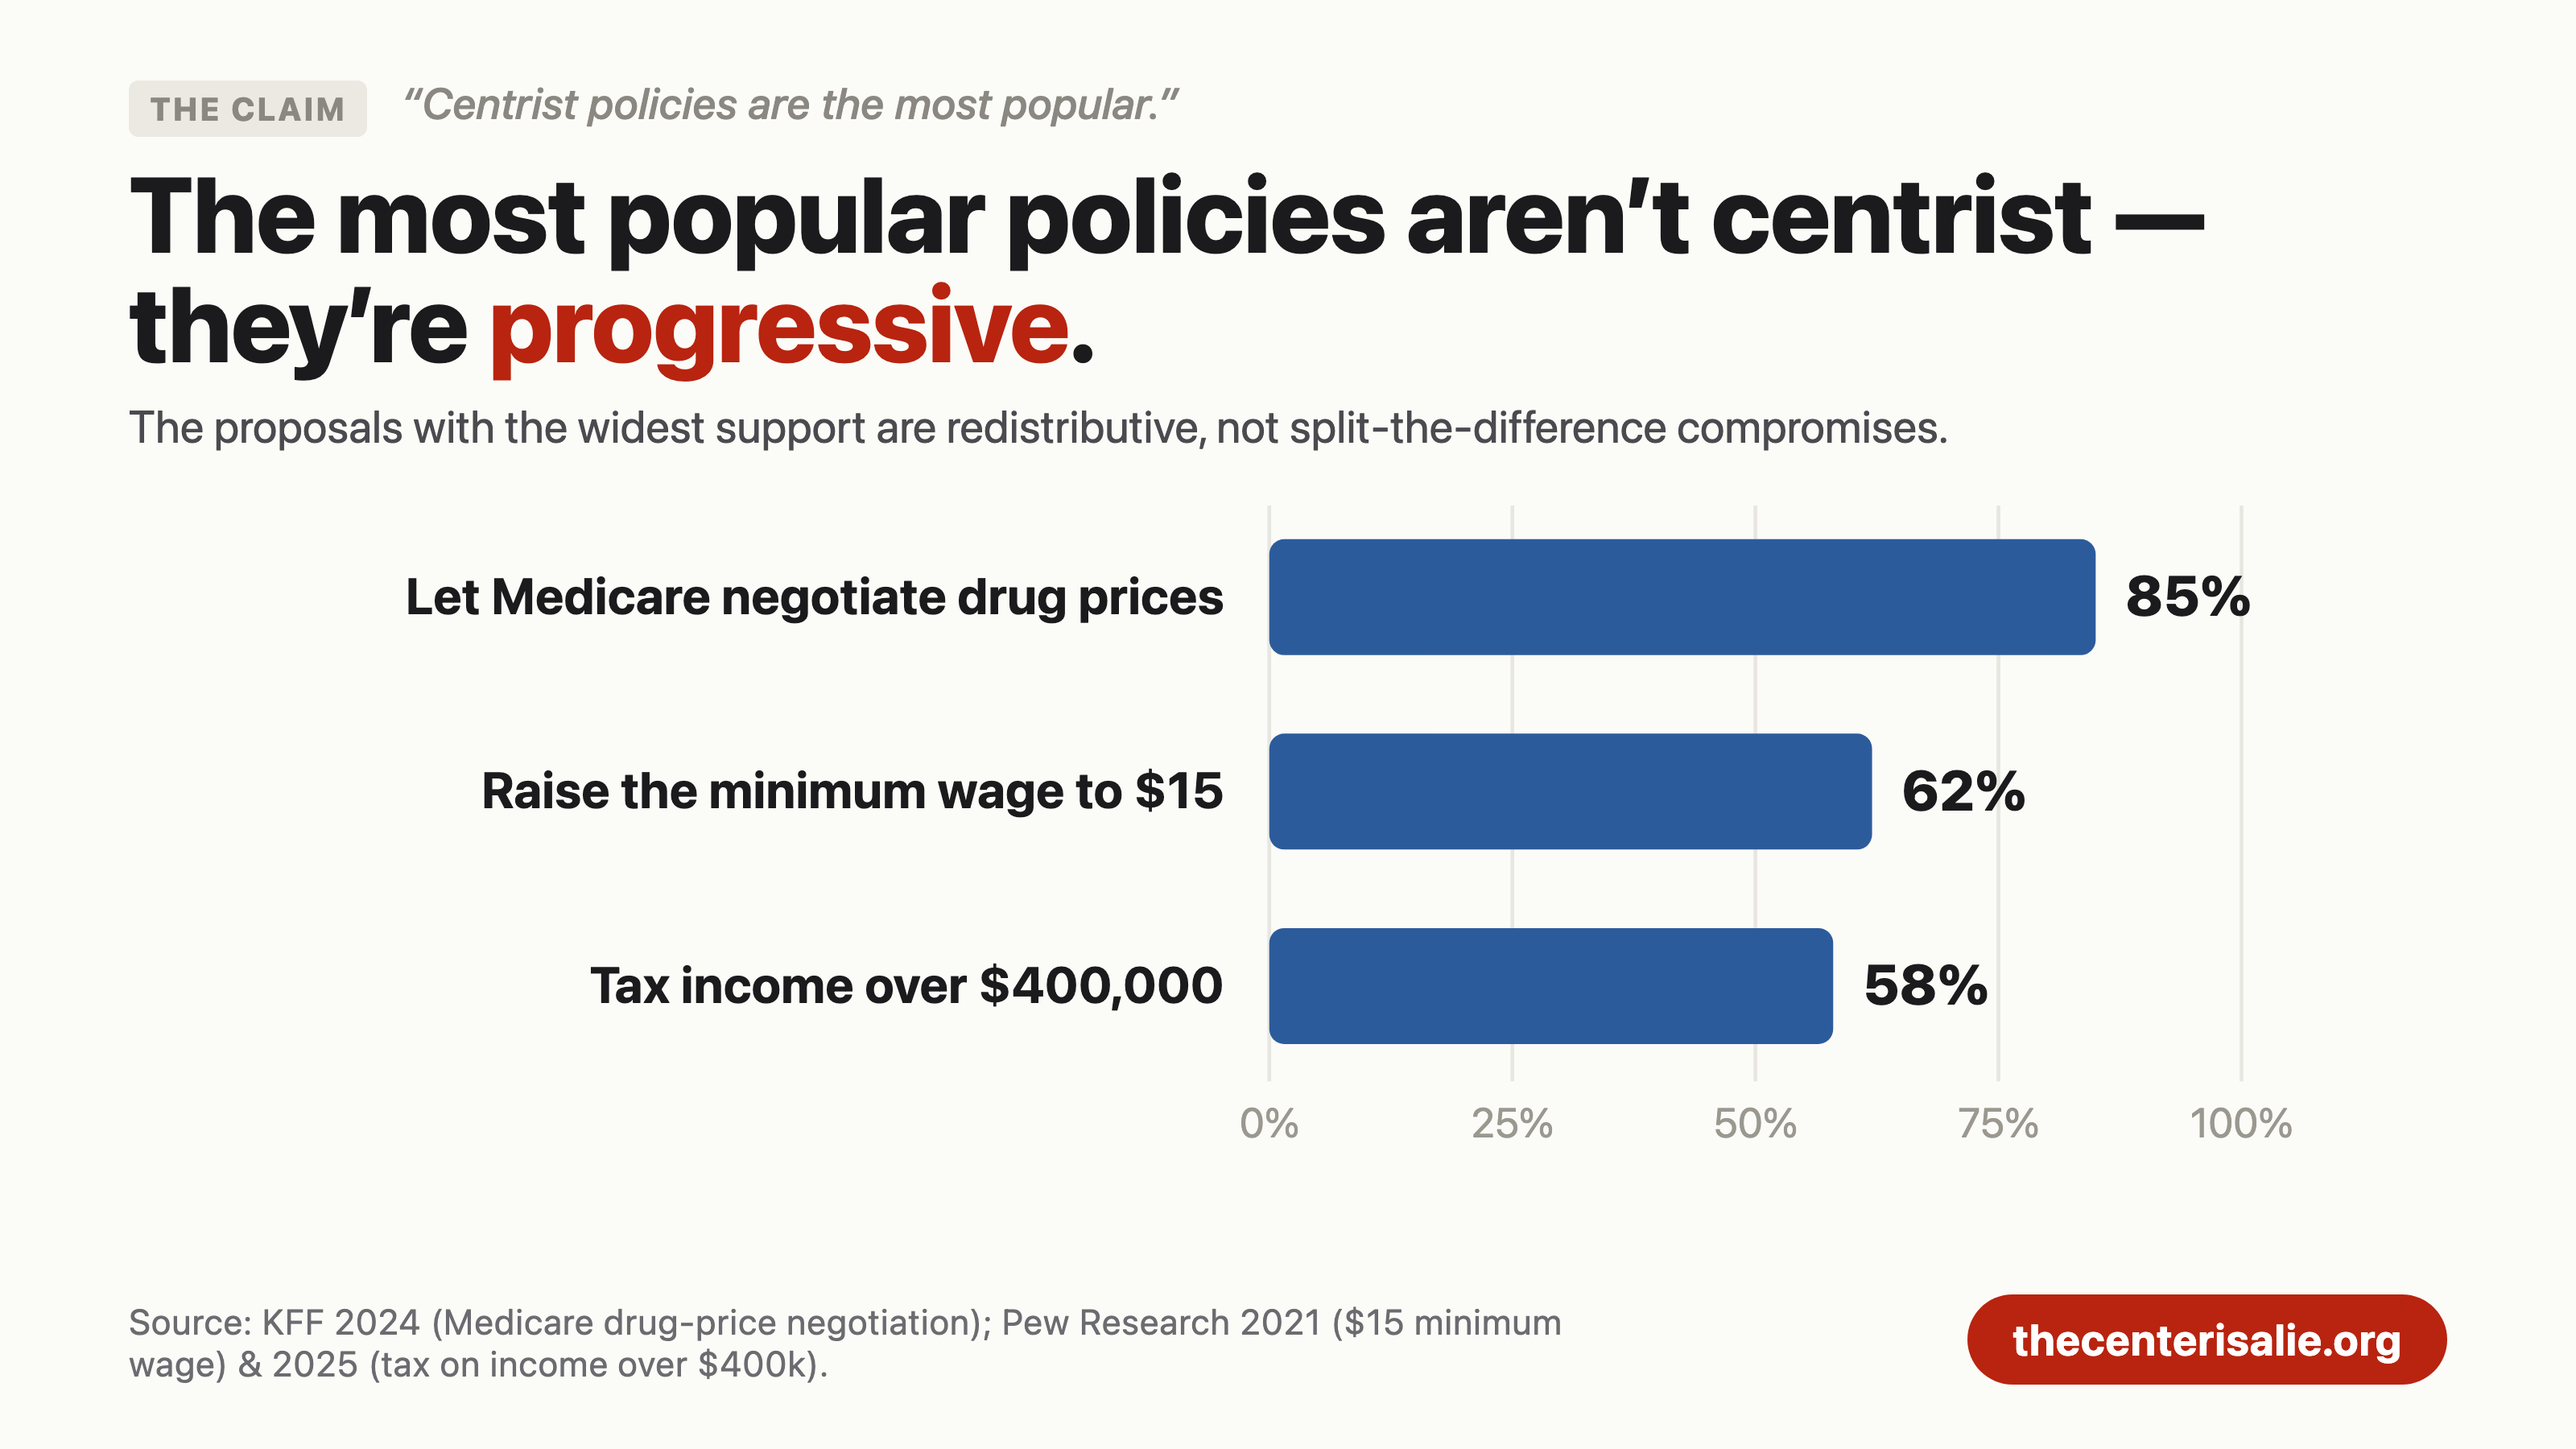
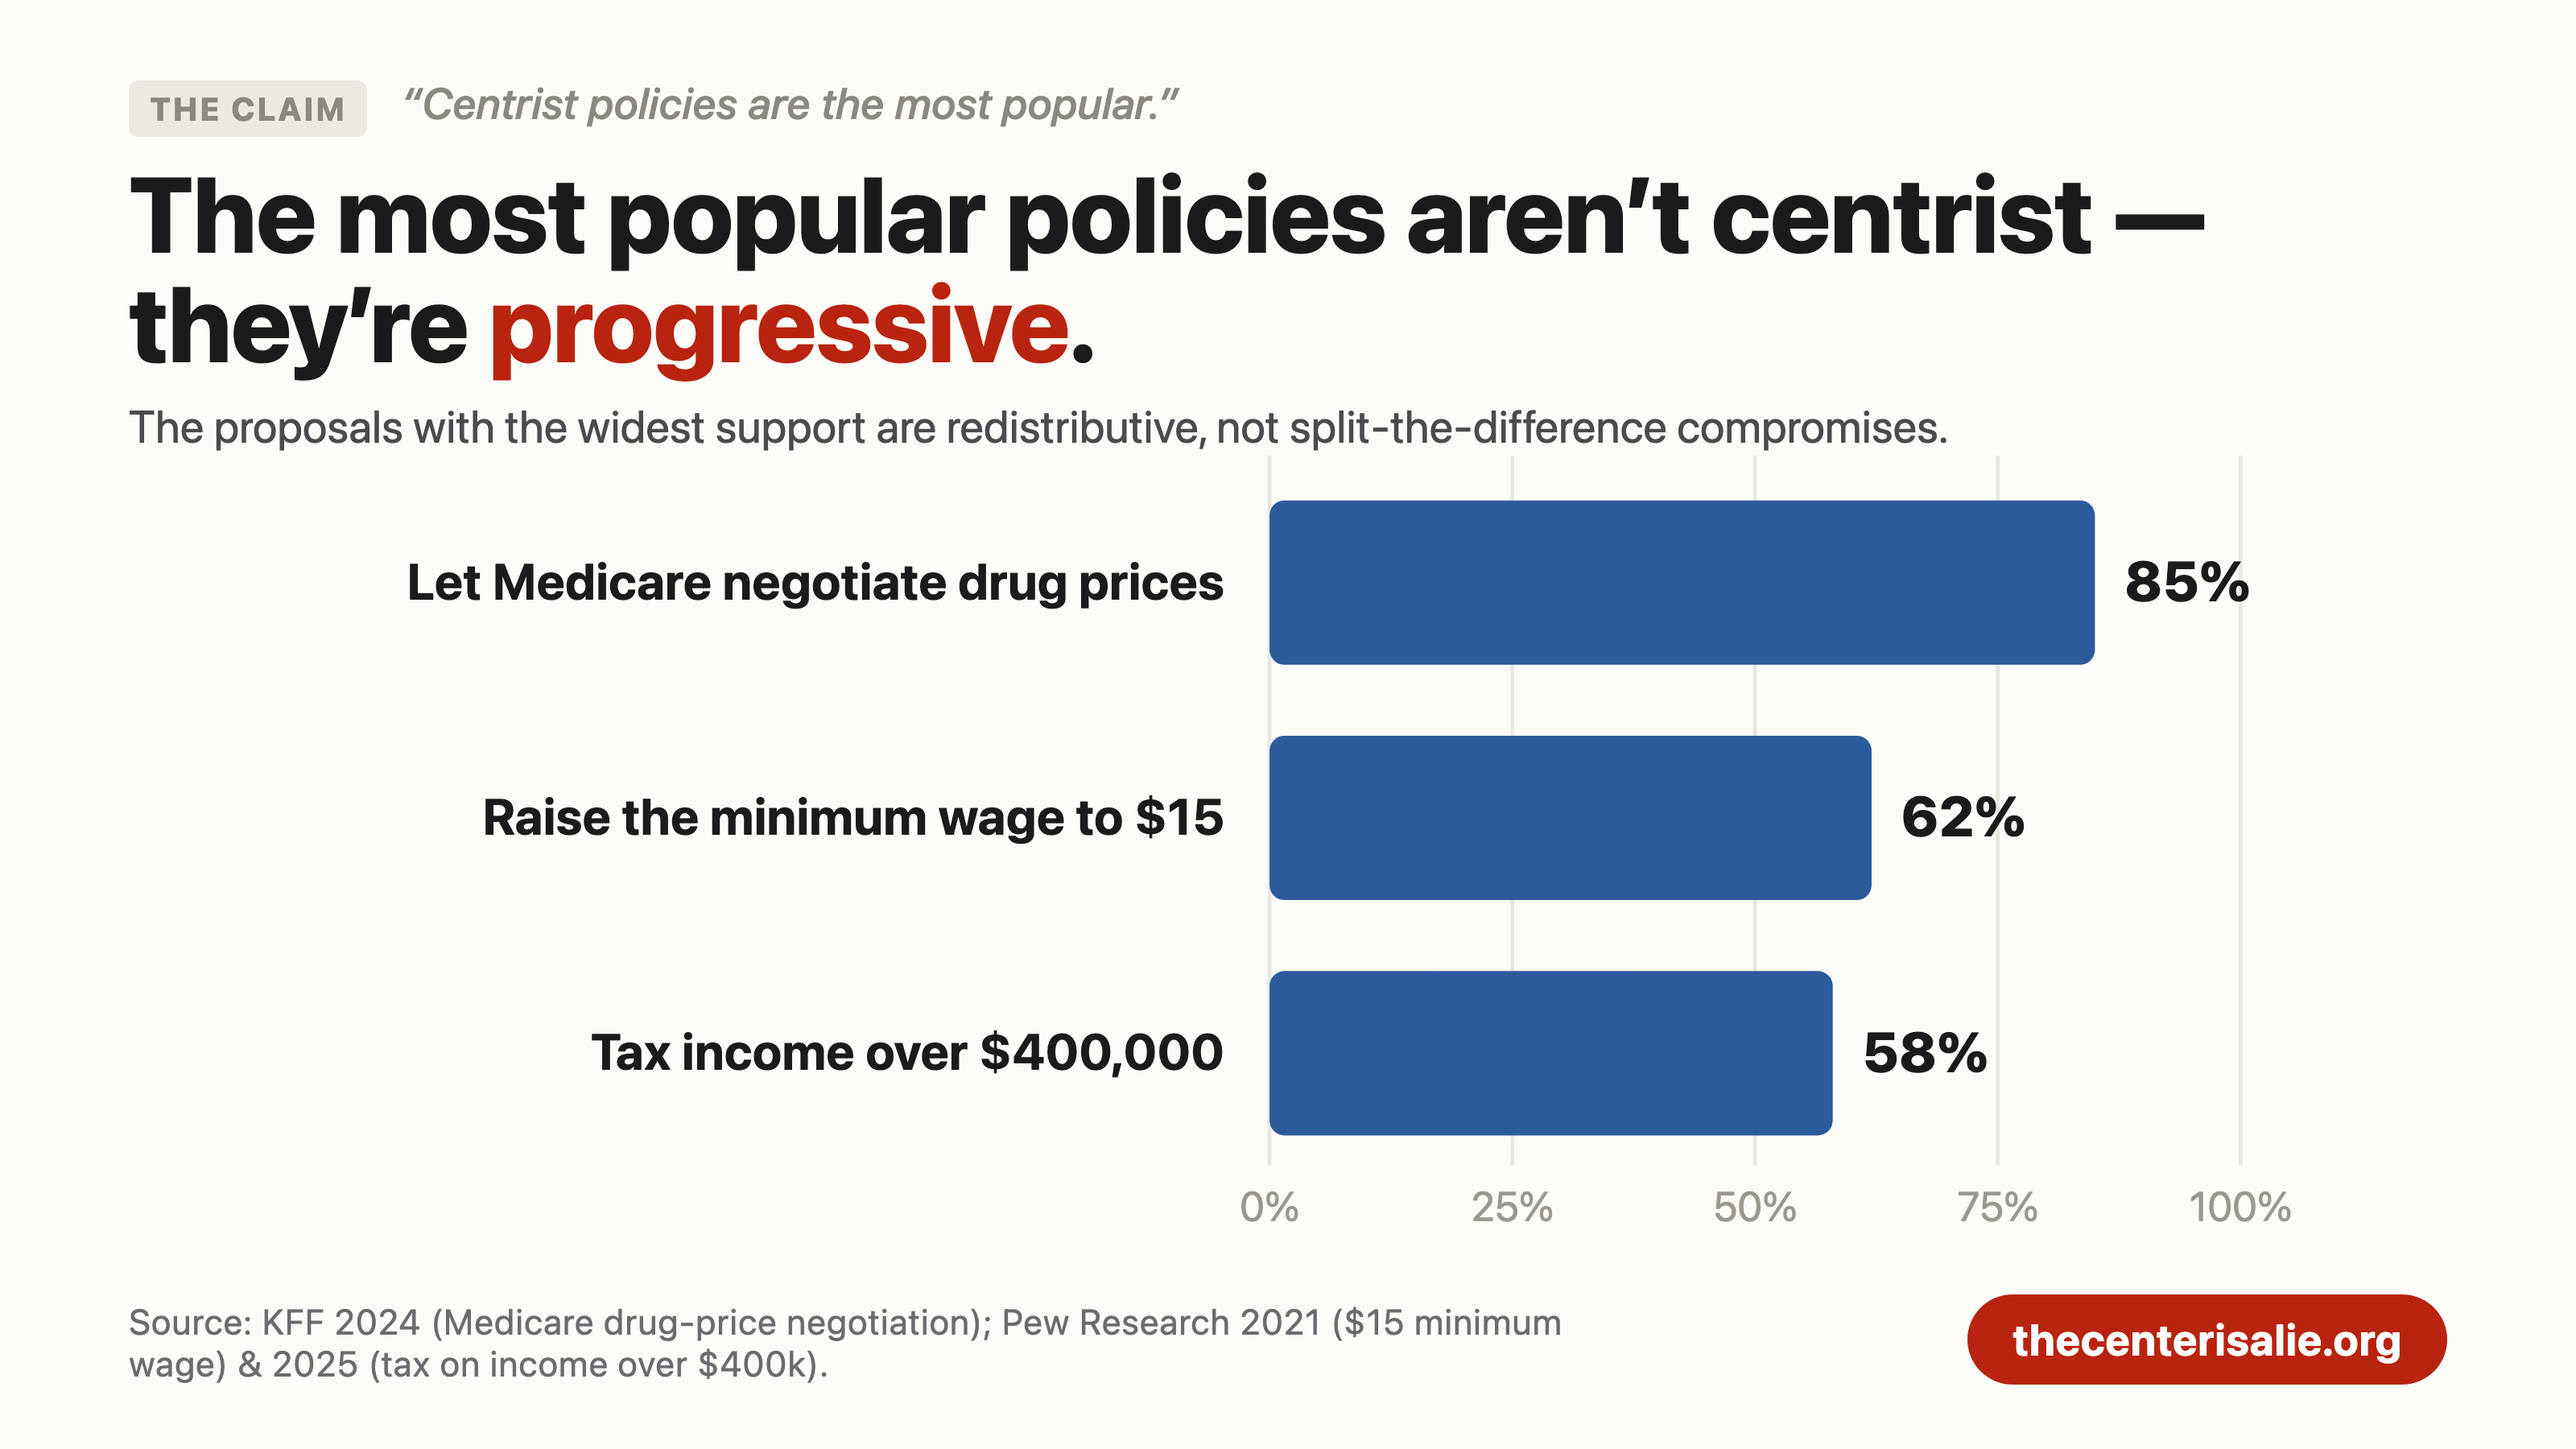
fix(og): fill frame on badtrade, popular, withintent
withintent also rebuilt with a percent axis, plainer group labels, blunter
title (angriest base voters most likely to defect).

diff --git a/web/og-cards/chart-withintent.html b/web/og-cards/chart-withintent.html
@@ -3,11 +3,11 @@
 <body>
   <div class="chartcard">
     <div class="cc-claim"><span class="tag">The claim</span> &ldquo;Just turn out your base &mdash; those votes are safe.&rdquo;</div>
-    <div class="cc-title">Turning out disaffected &ldquo;base&rdquo; voters can <span class="hl">backfire</span>.</div>
+    <div class="cc-title">The angriest &ldquo;base&rdquo; voters are the ones most likely to <span class="hl">defect</span>.</div>
     <div class="cc-sub">2016 defection to Trump among Democratic-leaning voters, by how much they distrust the system.</div>
 
-    <div class="cc-chart"><svg id="wt" viewBox="0 0 1240 372" role="img"
-      aria-label="Low-grievance Dem-leaners defect to Trump 2.6%; high-grievance defect 12.6%"></svg></div>
+    <div class="cc-chart"><svg id="wt" viewBox="0 0 1240 449" role="img"
+      aria-label="Among Democratic-leaning voters in 2016, the most distrustful defected to Trump at 12.6%, nearly five times the 2.6% rate among the trusting"></svg></div>
 
     <div class="cc-foot">
       <div class="cc-source">Source: ANES 2016; Democratic-leaning voters&rsquo; defection to Trump by institutional-trust grievance; weighted.</div>
@@ -19,20 +19,31 @@
     const NS = 'http://www.w3.org/2000/svg';
     const svg = document.getElementById('wt');
     const el = (t, a) => { const n = document.createElementNS(NS, t); for (const k in a) n.setAttribute(k, a[k]); return n; };
+    const txt = (a, s) => { const t = el('text', a); t.textContent = s; svg.appendChild(t); return t; };
+
     const rows = [
-      { name: 'Low-grievance (trusting)', v: 2.6 },
-      { name: 'High-grievance (distrustful)', v: 12.6, hot: true },
+      { name: 'Trusting', sub: 'the party faithful', v: 2.6, col: '#8b9aa8' },
+      { name: 'Distrustful', sub: '“the system is rigged”', v: 12.6, col: '#b8240f', hot: true },
     ];
-    const X0 = 640, X1 = 1090, VMAX = 14, sc = (X1 - X0) / VMAX;
-    const barH = 86, step = 150, y0 = 20;
+    const X0 = 560, X1 = 980, VMAX = 15, sc = (X1 - X0) / VMAX;
+    const barH = 118, step = 196, y0 = 30;
+    const axisBot = y0 + step + barH + 16;
+
+    for (let v = 0; v <= 15; v += 5) {
+      const gx = X0 + v * sc;
+      svg.appendChild(el('line', { x1: gx, y1: y0 - 14, x2: gx, y2: axisBot, stroke: v === 0 ? '#c9c6bd' : '#e8e6e0', 'stroke-width': v === 0 ? 3 : 2 }));
+      txt({ x: gx, y: axisBot + 32, 'text-anchor': 'middle', fill: '#9a988f', 'font-size': 22 }, v + '%');
+    }
+    txt({ x: (X0 + X1) / 2, y: axisBot + 70, 'text-anchor': 'middle', fill: '#7a7772', 'font-size': 24, 'font-style': 'italic' }, 'share who defected to Trump');
+
     rows.forEach((r, i) => {
       const yTop = y0 + i * step, mid = yTop + barH / 2;
-      const l1 = el('text', { x: X0 - 26, y: mid - 2, 'text-anchor': 'end', fill: '#1b1b1d', 'font-size': 29, 'font-weight': 700 }); l1.textContent = r.name; svg.appendChild(l1);
-      const l2 = el('text', { x: X0 - 26, y: mid + 30, 'text-anchor': 'end', fill: '#7a7772', 'font-size': 22 }); l2.textContent = 'Dem-leaners'; svg.appendChild(l2);
-      const w = r.v * sc;
-      svg.appendChild(el('rect', { x: X0, y: yTop, width: w, height: barH, rx: 9, fill: r.hot ? '#b8240f' : '#8b9aa8' }));
-      const val = el('text', { x: X0 + w + 20, y: mid + 15, fill: '#1b1b1d', 'font-size': 44, 'font-weight': 800 }); val.textContent = r.v.toFixed(1) + '%'; svg.appendChild(val);
+      txt({ x: X0 - 28, y: mid - 2, 'text-anchor': 'end', fill: r.hot ? '#b8240f' : '#1b1b1d', 'font-size': 34, 'font-weight': 800 }, r.name);
+      txt({ x: X0 - 28, y: mid + 32, 'text-anchor': 'end', fill: '#7a7772', 'font-size': 23 }, r.sub);
+      const w = Math.max(r.v * sc, 5);
+      svg.appendChild(el('rect', { x: X0, y: yTop, width: w, height: barH, rx: 8, fill: r.col }));
+      txt({ x: X0 + w + 22, y: mid + 16, fill: r.hot ? '#b8240f' : '#1b1b1d', 'font-size': 50, 'font-weight': 800 }, r.v.toFixed(1) + '%');
+      if (r.hot) txt({ x: X0 + w + 22 + 158, y: mid + 14, fill: '#b8240f', 'font-size': 30, 'font-weight': 700 }, 'nearly 5×');
     });
-    const cap = el('text', { x: X0, y: y0 + 2 * step + 20, 'text-anchor': 'start', fill: '#b8240f', 'font-size': 25, 'font-weight': 700 }); cap.textContent = 'nearly 5× the defection rate — 1 in 8'; svg.appendChild(cap);
   </script>
 </body></html>

diff --git a/web/og-cards/chart-popular.html b/web/og-cards/chart-popular.html
@@ -6,7 +6,7 @@
     <div class="cc-title">The most popular policies aren&rsquo;t centrist &mdash; they&rsquo;re <span class="hl">progressive</span>.</div>
     <div class="cc-sub">The proposals with the widest support are redistributive, not split-the-difference compromises.</div>
 
-    <div class="cc-chart"><svg id="pop" viewBox="0 0 1240 396" role="img"
+    <div class="cc-chart"><svg id="pop" viewBox="0 0 1240 449" role="img"
       aria-label="Support for progressive proposals: negotiate drug prices 85%, $15 minimum wage 62%, tax income over $400k 58%"></svg></div>
 
     <div class="cc-foot">
@@ -25,7 +25,7 @@
       { name: 'Tax income over $400,000', v: 58 },
     ];
     const X0 = 610, X1 = 1130, VMAX = 100, sc = (X1 - X0) / VMAX;
-    const barH = 62, step = 104, y0 = 18, axisY = y0 + rows.length * step - 22;
+    const barH = 88, step = 126, y0 = 24, axisY = y0 + rows.length * step - 22;
     for (let v = 0; v <= 100; v += 25) {
       const gx = X0 + v * sc;
       svg.appendChild(el('line', { x1: gx, y1: 0, x2: gx, y2: axisY, stroke: '#e8e6e0', 'stroke-width': 2 }));

diff --git a/web/og-cards/chart-badtrade.html b/web/og-cards/chart-badtrade.html
@@ -6,7 +6,7 @@
     <div class="cc-title">The voters who flipped 2016 were the <span class="hl">most anti-establishment</span>.</div>
     <div class="cc-sub">Average institutional trust by group. The lean-left swing that flipped WI/MI/PA is the lowest on the left.</div>
 
-    <div class="cc-chart"><svg id="bt" viewBox="0 0 1240 392" role="img"
+    <div class="cc-chart"><svg id="bt" viewBox="0 0 1240 449" role="img"
       aria-label="Average institutional trust: lean-left swing 0.17, moderate swing 0.22, strong-left loyalists 0.27"></svg></div>
 
     <div class="cc-foot">
@@ -25,7 +25,7 @@
       { name: 'Strong-left loyalists', sub: '', v: 0.27, hot: false },
     ];
     const X0 = 470, X1 = 1150, VMAX = 0.30, sc = (X1 - X0) / VMAX;
-    const barH = 62, step = 96, y0 = 14, axisY = y0 + rows.length * step - 22;
+    const barH = 84, step = 122, y0 = 20, axisY = y0 + rows.length * step - 22;
     // gridlines + ticks
     for (let v = 0; v <= 0.3001; v += 0.10) {
       const gx = X0 + v * sc;
